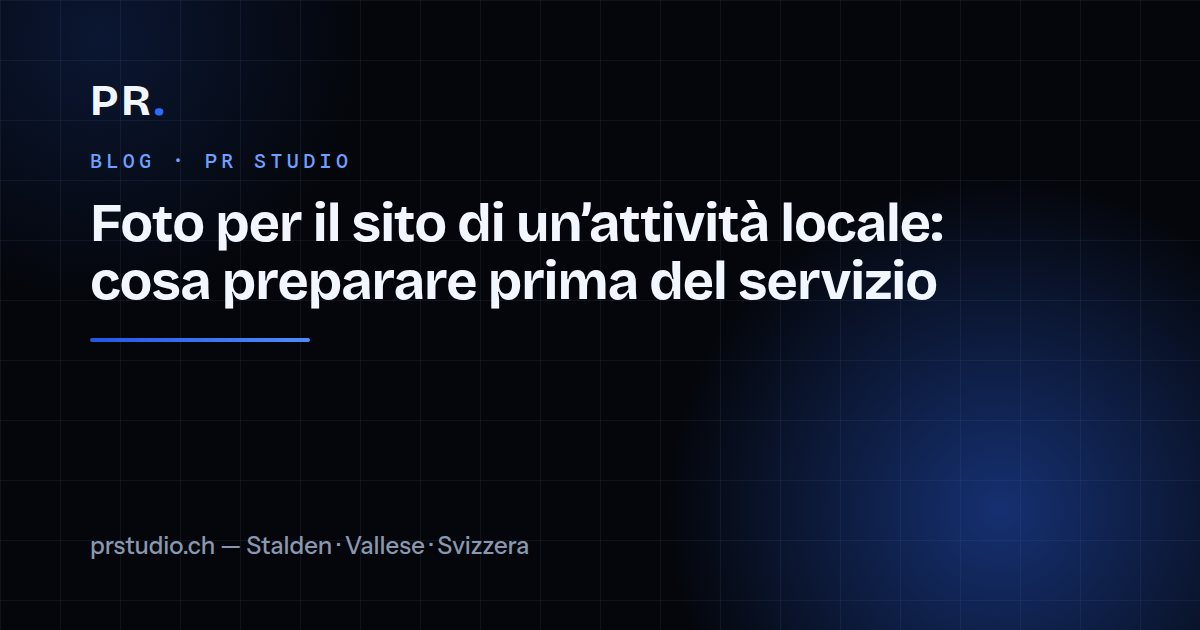
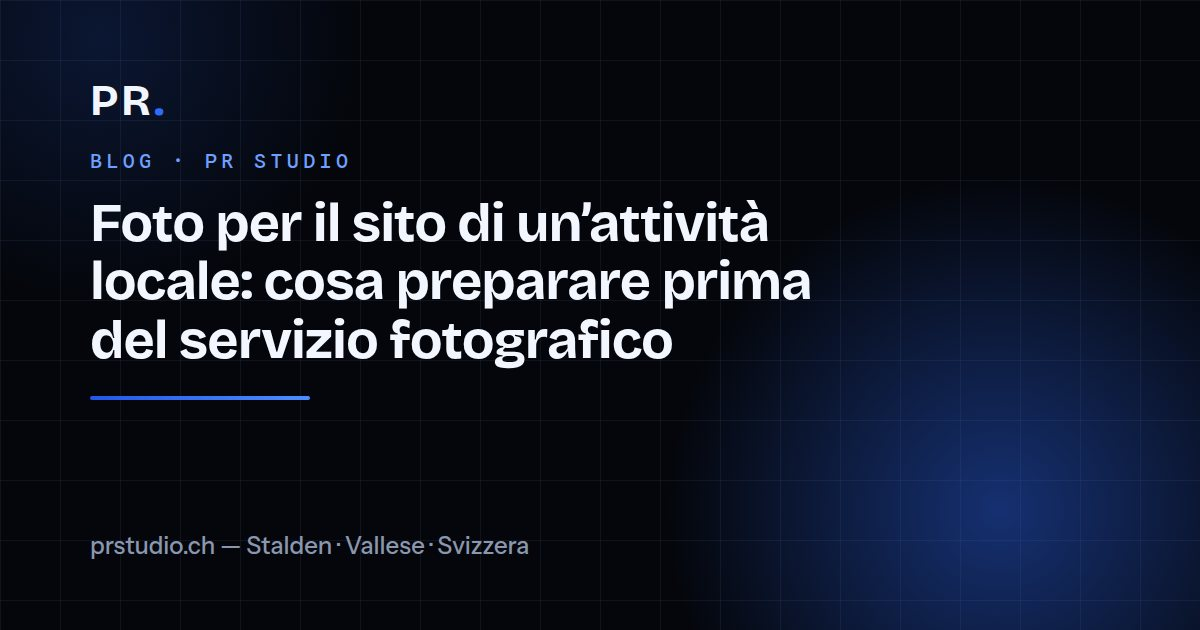
Artigo fotografia: cartão IT e imagem OG alinhados com o título revisto
Claude-Session: https://claude.ai/code/session_01WPQGYZGpMVzjEfL7LXqsCa

Changed region(s): [[0.0617, 0.3921, 0.8017, 0.6032], [0.0617, 0.6032, 0.2467, 0.6635], [0.6475, 0.3317, 0.8017, 0.3921]]

diff --git a/blog.html b/blog.html
@@ -118,7 +118,7 @@ footer.lg-foot .lg-links { gap:12px; }
     <div class="i18n-doc" data-lang="pt"><h1>Blog</h1><p class="lg-sub">Artigos sobre websites, preços e marketing digital no Valais.</p><div class="blog-list"><a class="blog-card" href="fotografia-site-negocio.html"><h2>Fotografia para o site de um negócio local: o que preparar antes da sessão</h2><p>Como preparar a sessão fotográfica para o site de um negócio local no Valais: que fotos precisas, o que preparar no espaço e o que evitar.</p><span>Ler artigo →</span></a><a class="blog-card" href="manutencao-site.html"><h2>Manutenção de um site: o que inclui e o que acontece sem ela</h2><p>O que a manutenção de um site inclui na prática (alojamento, SSL, cópias, atualizações, alterações) e os problemas que aparecem quando ninguém trata dele.</p><span>Ler artigo →</span></a><a class="blog-card" href="site-restaurante-valais.html"><h2>Site para restaurante no Valais: o que precisa mesmo ter</h2><p>O que um site de restaurante no Valais precisa mesmo: ementa legível, reservas, horários, várias línguas e fotos reais. E o que é desperdício.</p><span>Ler artigo →</span></a><a class="blog-card" href="google-business-valais.html"><h2>Ficha Google Business no Valais: aparecer no mapa antes da concorrência</h2><p>Categorias, fotos, avaliações e horários: o que faz um negócio local aparecer nos três primeiros do mapa — e os erros que custam clientes.</p><span>Ler artigo →</span></a><a class="blog-card" href="preco-site-suica.html"><h2>Quanto custa um site profissional na Suíça (preços reais, 2026)</h2><p>Sem letras pequenas: o que determina o preço de um site, quanto custam os três tipos mais comuns, e onde vale a pena poupar — e onde não vale.</p><span>Ler artigo →</span></a><a class="blog-card" href="multilingue-valais.html"><h2>Porque a tua empresa no Valais precisa de um site multilingue</h2><p>O Valais fala francês, alemão, e recebe turistas do mundo inteiro. Um site só numa língua está a fechar a porta a uma parte real dos teus clientes.</p><span>Ler artigo →</span></a></div></div>
     <div class="i18n-doc" data-lang="de"><h1>Blog</h1><p class="lg-sub">Artikel über Websites, Preise und digitales Marketing im Wallis.</p><div class="blog-list"><a class="blog-card" href="fotografia-site-negocio.html"><h2>Fotos für die Website eines lokalen Betriebs: was Sie vor dem Shooting vorbereiten</h2><p>So bereiten Sie das Fotoshooting für die Website eines lokalen Betriebs im Wallis vor: welche Fotos Sie brauchen, was im Raum vorzubereiten ist und was Sie vermeiden sollten.</p><span>Artikel lesen →</span></a><a class="blog-card" href="manutencao-site.html"><h2>Website-Wartung: was sie umfasst und was ohne sie passiert</h2><p>Was die Wartung einer Website in der Praxis umfasst (Hosting, SSL, Backups, Updates, Änderungen) und welche Probleme entstehen, wenn sich niemand darum kümmert.</p><span>Artikel lesen →</span></a><a class="blog-card" href="site-restaurante-valais.html"><h2>Restaurant-Website im Wallis: was sie wirklich braucht</h2><p>Was die Website eines Restaurants im Wallis wirklich braucht: lesbare Speisekarte, Reservation, Öffnungszeiten, Sprachen und echte Fotos. Und was Verschwendung ist.</p><span>Artikel lesen →</span></a><a class="blog-card" href="google-business-valais.html"><h2>Google-Business-Profil im Wallis: auf der Karte vor der Konkurrenz</h2><p>Kategorien, Fotos, Bewertungen und Öffnungszeiten: was einen lokalen Betrieb unter die ersten drei auf der Karte bringt — und die Fehler, die Kunden kosten.</p><span>Artikel lesen →</span></a><a class="blog-card" href="preco-site-suica.html"><h2>Was kostet eine professionelle Website in der Schweiz? (echte Preise, 2026)</h2><p>Ohne Kleingedrucktes: was den Preis einer Website bestimmt, was die drei häufigsten Typen kosten — und wo sich Sparen lohnt, und wo nicht.</p><span>Artikel lesen →</span></a><a class="blog-card" href="multilingue-valais.html"><h2>Warum Ihr Unternehmen im Wallis eine mehrsprachige Website braucht</h2><p>Das Wallis spricht Französisch und Deutsch und empfängt Gäste aus aller Welt. Eine einsprachige Website schliesst einen echten Teil Ihrer Kundschaft aus.</p><span>Artikel lesen →</span></a></div></div>
     <div class="i18n-doc" data-lang="fr"><h1>Blog</h1><p class="lg-sub">Articles sur les sites web, les prix et le marketing digital en Valais.</p><div class="blog-list"><a class="blog-card" href="fotografia-site-negocio.html"><h2>Photos pour le site d’un commerce local : ce qu’il faut préparer avant la séance</h2><p>Comment préparer la séance photo pour le site d’un commerce local en Valais : quelles photos il vous faut, ce qu’il faut préparer sur place et ce qu’il faut éviter.</p><span>Lire l'article →</span></a><a class="blog-card" href="manutencao-site.html"><h2>Maintenance d’un site web : ce qu’elle comprend et ce qui arrive sans elle</h2><p>Ce que la maintenance d’un site comprend concrètement (hébergement, SSL, sauvegardes, mises à jour, modifications) et les problèmes qui surgissent quand personne ne s’en occupe.</p><span>Lire l'article →</span></a><a class="blog-card" href="site-restaurante-valais.html"><h2>Site de restaurant en Valais : ce dont il a vraiment besoin</h2><p>Ce dont le site d’un restaurant en Valais a vraiment besoin : carte lisible, réservation, horaires, langues et vraies photos. Et ce qui est du gaspillage.</p><span>Lire l'article →</span></a><a class="blog-card" href="google-business-valais.html"><h2>Fiche Google Business en Valais : sur la carte avant la concurrence</h2><p>Catégories, photos, avis et horaires : ce qui place un commerce local dans les trois premiers de la carte — et les erreurs qui coûtent des clients.</p><span>Lire l'article →</span></a><a class="blog-card" href="preco-site-suica.html"><h2>Combien coûte un site web professionnel en Suisse (prix réels, 2026)</h2><p>Sans petits caractères : ce qui détermine le prix d'un site, ce que coûtent les trois types les plus courants, et où il vaut la peine d'économiser — et où non.</p><span>Lire l'article →</span></a><a class="blog-card" href="multilingue-valais.html"><h2>Pourquoi votre entreprise en Valais a besoin d'un site multilingue</h2><p>Le Valais parle français et allemand, et accueille des visiteurs du monde entier. Un site en une seule langue ferme la porte à une partie réelle de vos clients.</p><span>Lire l'article →</span></a></div></div>
-    <div class="i18n-doc" data-lang="it"><h1>Blog</h1><p class="lg-sub">Articoli su siti web, prezzi e marketing digitale in Vallese.</p><div class="blog-list"><a class="blog-card" href="fotografia-site-negocio.html"><h2>Foto per il sito di un’attività locale: cosa preparare prima del servizio</h2><p>Come preparare il servizio fotografico per il sito di un’attività locale in Vallese: quali foto servono, cosa preparare nel locale e cosa evitare.</p><span>Leggi l’articolo →</span></a><a class="blog-card" href="manutencao-site.html"><h2>Manutenzione di un sito: cosa include e cosa succede senza</h2><p>Cosa include in pratica la manutenzione di un sito (hosting, SSL, backup, aggiornamenti, modifiche) e i problemi che compaiono quando nessuno se ne occupa.</p><span>Leggi l’articolo →</span></a><a class="blog-card" href="site-restaurante-valais.html"><h2>Sito per ristorante in Vallese: cosa serve davvero</h2><p>Cosa serve davvero al sito di un ristorante in Vallese: menù leggibile, prenotazioni, orari, lingue e foto vere. E cosa è uno spreco.</p><span>Leggi l’articolo →</span></a><a class="blog-card" href="google-business-valais.html"><h2>Scheda Google Business in Vallese: sulla mappa prima della concorrenza</h2><p>Categorie, foto, recensioni e orari: cosa porta un’attività locale tra le prime tre sulla mappa — e gli errori che costano clienti.</p><span>Leggi l’articolo →</span></a><a class="blog-card" href="preco-site-suica.html"><h2>Quanto costa un sito web professionale in Svizzera (prezzi reali, 2026)</h2><p>Senza asterischi: cosa determina il prezzo di un sito, quanto costano i tre tipi più comuni, e dove conviene risparmiare — e dove no.</p><span>Leggi l’articolo →</span></a><a class="blog-card" href="multilingue-valais.html"><h2>Perché la tua azienda in Vallese ha bisogno di un sito multilingue</h2><p>Il Vallese parla francese e tedesco e accoglie turisti da tutto il mondo. Un sito in una sola lingua chiude la porta a una parte reale dei tuoi clienti.</p><span>Leggi l’articolo →</span></a></div></div>
+    <div class="i18n-doc" data-lang="it"><h1>Blog</h1><p class="lg-sub">Articoli su siti web, prezzi e marketing digitale in Vallese.</p><div class="blog-list"><a class="blog-card" href="fotografia-site-negocio.html"><h2>Foto per il sito di un’attività locale: cosa preparare prima del servizio fotografico</h2><p>Come preparare il servizio fotografico per il sito di un’attività locale in Vallese: quali foto servono, cosa preparare nel locale e cosa evitare.</p><span>Leggi l’articolo →</span></a><a class="blog-card" href="manutencao-site.html"><h2>Manutenzione di un sito: cosa include e cosa succede senza</h2><p>Cosa include in pratica la manutenzione di un sito (hosting, SSL, backup, aggiornamenti, modifiche) e i problemi che compaiono quando nessuno se ne occupa.</p><span>Leggi l’articolo →</span></a><a class="blog-card" href="site-restaurante-valais.html"><h2>Sito per ristorante in Vallese: cosa serve davvero</h2><p>Cosa serve davvero al sito di un ristorante in Vallese: menù leggibile, prenotazioni, orari, lingue e foto vere. E cosa è uno spreco.</p><span>Leggi l’articolo →</span></a><a class="blog-card" href="google-business-valais.html"><h2>Scheda Google Business in Vallese: sulla mappa prima della concorrenza</h2><p>Categorie, foto, recensioni e orari: cosa porta un’attività locale tra le prime tre sulla mappa — e gli errori che costano clienti.</p><span>Leggi l’articolo →</span></a><a class="blog-card" href="preco-site-suica.html"><h2>Quanto costa un sito web professionale in Svizzera (prezzi reali, 2026)</h2><p>Senza asterischi: cosa determina il prezzo di un sito, quanto costano i tre tipi più comuni, e dove conviene risparmiare — e dove no.</p><span>Leggi l’articolo →</span></a><a class="blog-card" href="multilingue-valais.html"><h2>Perché la tua azienda in Vallese ha bisogno di un sito multilingue</h2><p>Il Vallese parla francese e tedesco e accoglie turisti da tutto il mondo. Un sito in una sola lingua chiude la porta a una parte reale dei tuoi clienti.</p><span>Leggi l’articolo →</span></a></div></div>
     <div class="i18n-doc" data-lang="en"><h1>Blog</h1><p class="lg-sub">Articles about websites, pricing and digital marketing in Valais.</p><div class="blog-list"><a class="blog-card" href="fotografia-site-negocio.html"><h2>Photos for a local business website: what to prepare before the shoot</h2><p>How to prepare the photo shoot for a local business website in Valais: which photos you need, what to get ready on site and what to avoid.</p><span>Read article →</span></a><a class="blog-card" href="manutencao-site.html"><h2>Website maintenance: what it includes and what happens without it</h2><p>What website maintenance includes in practice (hosting, SSL, backups, updates, changes) and the problems that appear when nobody looks after it.</p><span>Read article →</span></a><a class="blog-card" href="site-restaurante-valais.html"><h2>A restaurant website in Valais: what it really needs</h2><p>What a restaurant website in Valais really needs: a readable menu, bookings, opening hours, languages and real photos. And what is a waste of money.</p><span>Read article →</span></a><a class="blog-card" href="google-business-valais.html"><h2>Google Business Profile in Valais: on the map before your competitors</h2><p>Categories, photos, reviews and hours: what puts a local business in the top three on the map — and the mistakes that cost customers.</p><span>Read article →</span></a><a class="blog-card" href="preco-site-suica.html"><h2>How much does a professional website cost in Switzerland (real prices, 2026)</h2><p>No small print: what determines the price of a website, what the three most common types cost, and where it pays to save — and where it doesn't.</p><span>Read article →</span></a><a class="blog-card" href="multilingue-valais.html"><h2>Why your business in Valais needs a multilingual website</h2><p>Valais speaks French and German and welcomes visitors from all over the world. A single-language site shuts the door on a real share of your customers.</p><span>Read article →</span></a></div></div>
   </main>
   <footer class="lg-foot">
